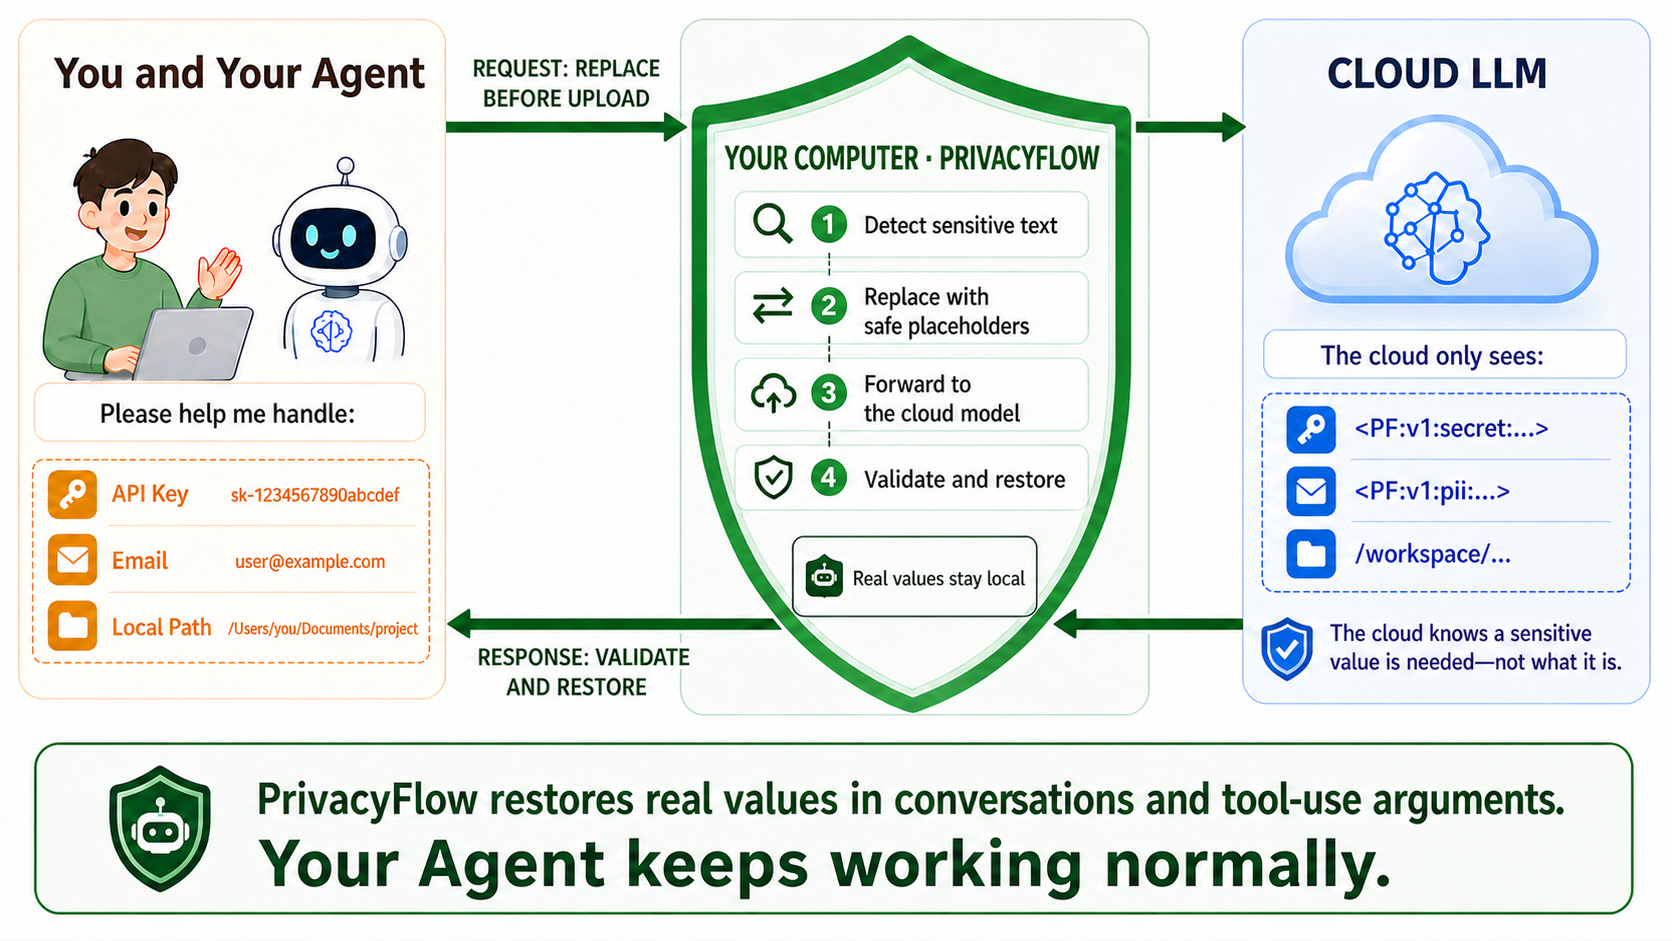
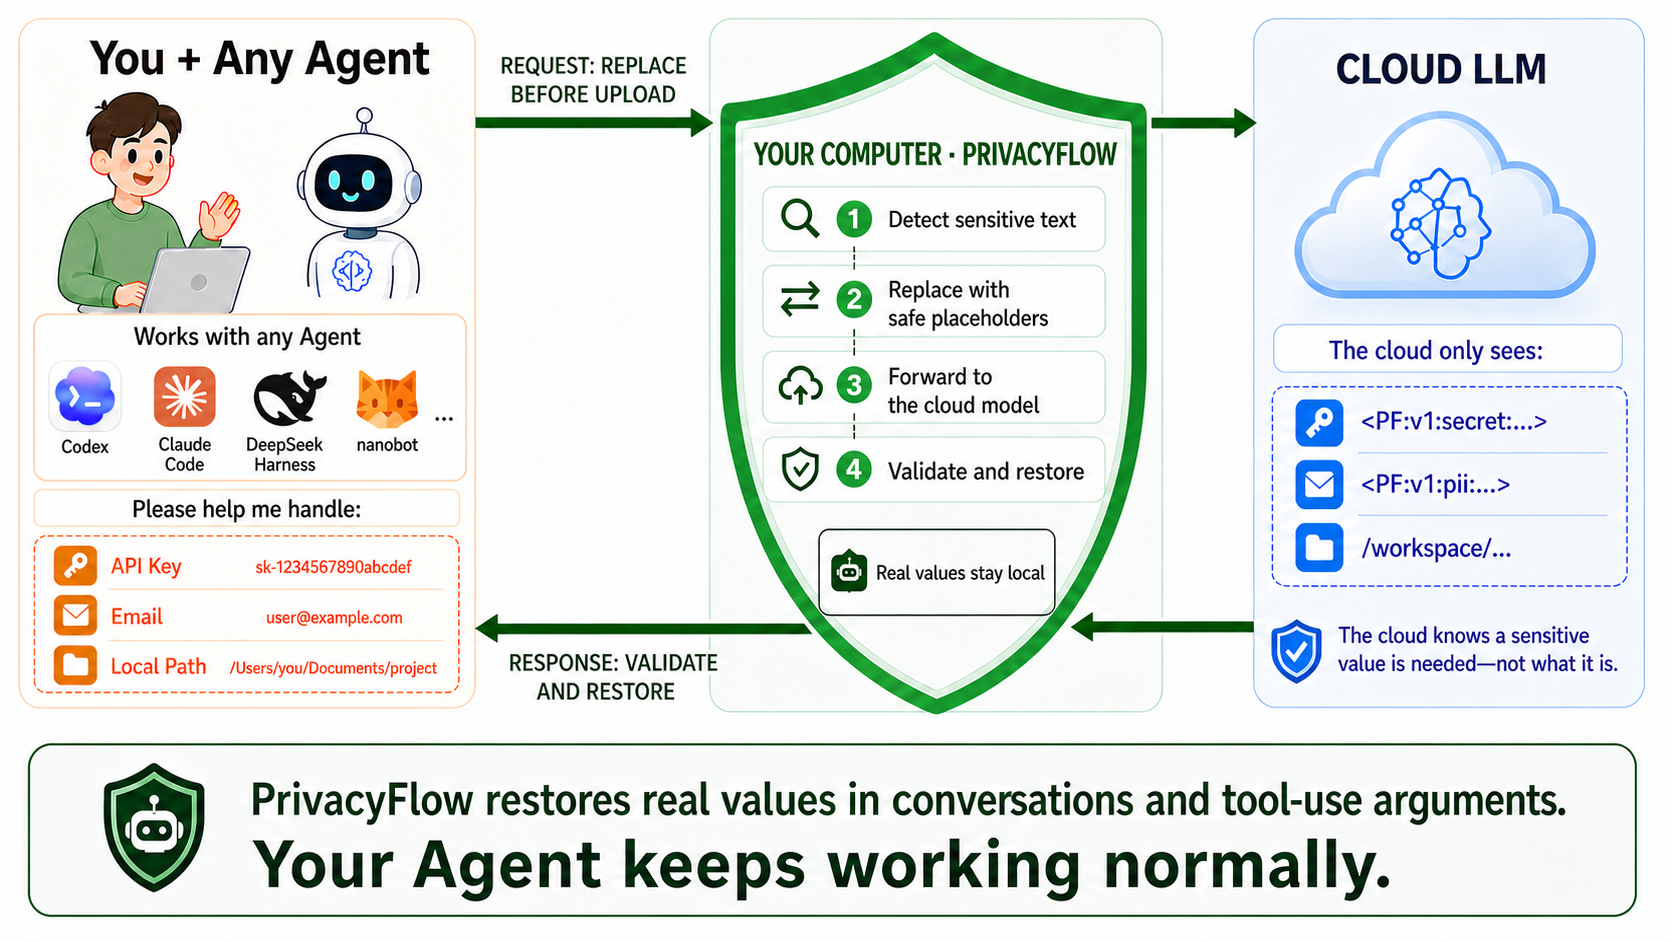
docs: move quick start below architecture

Changed region(s): [[0.0, 0.0, 0.9952, 0.9862]]

diff --git a/README_zh.md b/README_zh.md
@@ -28,8 +28,41 @@
 </p>
 
 <p align="center">
-  <img src="docs/privacyflow-architecture.png" width="100%" alt="PrivacyFlow 架构：敏感值在上传云端前于本地被替换，并在会话和工具调用参数中还原，让 Agent 保持正常工作">
+  <img src="docs/privacyflow-architecture.png" width="100%" alt="PrivacyFlow 支持任意 Agent，在上传云端前于本地替换敏感值，并在会话和工具调用参数中还原">
 </p>
+
+<a id="quick-start"></a>
+
+## ⚡ 快速开始
+
+需要 Python 3.11 或更高版本。
+
+```bash
+git clone https://github.com/HKUDS/PrivacyFlow.git
+cd PrivacyFlow
+python3 -m venv .venv
+. .venv/bin/activate
+python -m pip install -e .
+privacyflow
+```
+
+然后打开 [http://127.0.0.1:8765/ui/](http://127.0.0.1:8765/ui/)，依次：
+
+1. 添加并启用上游供应商；
+2. 打开 PrivacyFlow 总开关；
+3. 进入 **Agent 快速接入**；
+4. 选择 Agent 和模型，点击 **快速接入**。
+
+PrivacyFlow 会在修改用户级配置前验证 Agent 的原生协议。点击
+**恢复原配置**可将配置精确恢复到接入前的状态。内置 Connector 已覆盖
+Codex、Claude Code、DeepSeek Harness 和 nanobot；其他 Agent 可以通过
+PrivacyFlow 的标准本地端点接入。
+
+> [!NOTE]
+> PrivacyFlow 不转换协议。Agent 和上游供应商必须支持相同的格式：
+> Chat Completions、Responses 或 Anthropic Messages。
+
+手动端点、快照行为和旧 APG 状态迁移请参阅[详细接入与迁移](#detailed-setup-and-migration)。
 
 ## 为什么需要 PrivacyFlow？
 
@@ -109,44 +142,15 @@ and use key sk-example-not-a-real-key.
 
 这份契约只覆盖受支持的 JSON/SSE 文本字段。为避免破坏协议，`image_url`、`file_data`、音频、图片块等不透明多模态字段以及协议标识符会原样通过。因此 PrivacyFlow 目前不是覆盖整个请求或多模态数据的完整 DLP。
 
-<a id="quick-start"></a>
+<a id="detailed-setup-and-migration"></a>
 
-## ⚡ 快速开始
-
-> **最快路径：一键接入 Agent。** PrivacyFlow 启动并启用上游配置后，打开 WebUI 的
-> **Agent 快速接入**，选择模型并点击 **快速接入**。PrivacyFlow 会自动检测已经安装的
-> Codex、Claude Code、DeepSeek Harness 或 nanobot，预检原生协议并写入用户级配置，
-> 无需手动复制 endpoint 或 API Key；之后可随时点击 **恢复原配置** 撤销接入。
-
-### 1. 安装
-
-要求：macOS、Linux 或 Windows，以及 Python 3.11 或更高版本。
-
-```bash
-git clone https://github.com/HKUDS/PrivacyFlow.git
-cd PrivacyFlow
-
-python3 -m venv .venv
-. .venv/bin/activate
-python -m pip install -e .
-```
+## 🔧 详细接入与迁移
 
 在 Windows PowerShell 中，请使用 `.venv\Scripts\Activate.ps1` 激活环境。
+首次启动会创建 `.privacyflow/launcher.json`、随机本地 Agent API Key 和签名密钥，
+并在 `http://127.0.0.1:8765/ui/` 提供仅限 loopback 的 WebUI。
 
-### 2. 启动 PrivacyFlow
-
-```bash
-privacyflow
-```
-
-首次启动会创建 `.privacyflow/launcher.json`、随机本地 Agent API Key 和签名密钥。PrivacyFlow 会打印 loopback WebUI 地址：
-
-```text
-PrivacyFlow
-WebUI: http://127.0.0.1:8765/ui/
-```
-
-### 3. 连接上游模型
+### 连接上游模型
 
 打开 WebUI，然后：
 
@@ -158,7 +162,7 @@ WebUI: http://127.0.0.1:8765/ui/
 在支持文件权限的系统中，供应商密钥会以 `0600` 权限写入本地启动配置；管理 API 永远不会返回供应商密钥。
 每个连接默认开放 Chat Completions、Responses 和 Anthropic Messages 三种入口。PrivacyFlow 根据收到请求的本地端点选择匹配的原生上游端点，不会在格式之间转换；如果供应商不支持该格式，PrivacyFlow 会返回实际上游错误。
 
-### 4. 将 Agent 接入 PrivacyFlow
+### 将 Agent 接入 PrivacyFlow
 
 WebUI 的 **Agent 快速接入**页面可自动配置已经安装的 Codex、Claude Code、DeepSeek Harness 和 nanobot。选择模型后，PrivacyFlow 会重新读取上游模型目录，并用该 Agent 的原生协议进行真实测试；只有测试成功才会写入用户级配置。DeepSeek Harness 使用 endpoint 配置，不安装原生插件。
 

diff --git a/README.md b/README.md
@@ -23,7 +23,7 @@
 </p>
 
 <p align="center">
-  <a href="#-quick-start">Quick Start</a> ·
+  <a href="#quick-start">Quick Start</a> ·
   <a href="#-how-it-works">How It Works</a> ·
   <a href="#-supported-api-formats">API Formats</a> ·
   <a href="#-security-boundary">Security</a> ·
@@ -31,8 +31,43 @@
 </p>
 
 <p align="center">
-  <img src="docs/privacyflow-architecture.png" width="100%" alt="PrivacyFlow architecture: sensitive values are replaced locally before cloud upload and restored in conversations and tool-use arguments so the Agent keeps working normally">
+  <img src="docs/privacyflow-architecture.png" width="100%" alt="PrivacyFlow works with any Agent, replacing sensitive values locally before cloud upload and restoring them in conversations and tool-use arguments">
 </p>
+
+<a id="quick-start"></a>
+
+## ⚡ Quick Start
+
+Requires Python 3.11 or newer.
+
+```bash
+git clone https://github.com/HKUDS/PrivacyFlow.git
+cd PrivacyFlow
+python3 -m venv .venv
+. .venv/bin/activate
+python -m pip install -e .
+privacyflow
+```
+
+Then open [http://127.0.0.1:8765/ui/](http://127.0.0.1:8765/ui/) and:
+
+1. add and enable an upstream provider;
+2. turn on the PrivacyFlow master switch;
+3. open **Agent quick connect**;
+4. choose an Agent and model, then click **Quick connect**.
+
+PrivacyFlow validates the Agent's native protocol before changing its user-level
+configuration. **Restore previous configuration** returns the configuration to
+its exact pre-connection state. The built-in connectors cover Codex, Claude Code,
+DeepSeek Harness, and nanobot; other Agents can connect through PrivacyFlow's
+standard local endpoints.
+
+> [!NOTE]
+> PrivacyFlow does not convert protocols. The Agent and upstream provider must
+> support the same format: Chat Completions, Responses, or Anthropic Messages.
+
+See [detailed setup and migration](#detailed-setup-and-migration) for manual
+endpoints, snapshot behavior, and legacy APG migration.
 
 ## Why PrivacyFlow?
 
@@ -171,46 +206,16 @@ image blocks are deliberately passed through unchanged to avoid corrupting the
 wire format. PrivacyFlow therefore does not claim complete request-wide or multimodal
 data-loss prevention.
 
-## ⚡ Quick Start
+<a id="detailed-setup-and-migration"></a>
 
-> **Fast path: connect your Agent in one click.** Once PrivacyFlow is running and an
-> upstream is enabled, open **Agent quick connect**, choose a model, and click
-> **Quick connect**. PrivacyFlow detects your installed Codex, Claude Code, DeepSeek
-> Harness, or nanobot, validates its native protocol, and writes the user-level
-> configuration for you—no manual endpoint or key copying. The change can be
-> undone at any time with **Restore previous configuration**.
-
-### 1. Install
-
-Requirements: Python 3.11 or newer on macOS, Linux, or Windows.
-
-```bash
-git clone https://github.com/HKUDS/PrivacyFlow.git
-cd PrivacyFlow
-
-python3 -m venv .venv
-. .venv/bin/activate
-python -m pip install -e .
-```
+## 🔧 Detailed setup and migration
 
 On Windows PowerShell, activate the environment with
-`.venv\Scripts\Activate.ps1`.
+`.venv\Scripts\Activate.ps1`. The first start creates
+`.privacyflow/launcher.json`, a random local Agent API key, and a signing secret.
+PrivacyFlow then serves its loopback WebUI at `http://127.0.0.1:8765/ui/`.
 
-### 2. Start PrivacyFlow
-
-```bash
-privacyflow
-```
-
-The first start creates `.privacyflow/launcher.json`, a random local Agent API key, and
-a signing secret. PrivacyFlow prints its loopback WebUI:
-
-```text
-PrivacyFlow
-WebUI: http://127.0.0.1:8765/ui/
-```
-
-### 3. Connect an upstream
+### Connect an upstream
 
 Open the WebUI and:
 
@@ -226,7 +231,7 @@ entrypoints by default. PrivacyFlow selects the matching native upstream route f
 incoming endpoint and never converts between formats. If the provider does not
 support that format, PrivacyFlow returns the actual upstream error.
 
-### 4. Connect an Agent to PrivacyFlow
+### Connect an Agent to PrivacyFlow
 
 The WebUI's **Agent quick connect** view configures installed Codex, Claude Code,
 DeepSeek Harness, and nanobot user-level instances. PrivacyFlow refreshes the upstream
